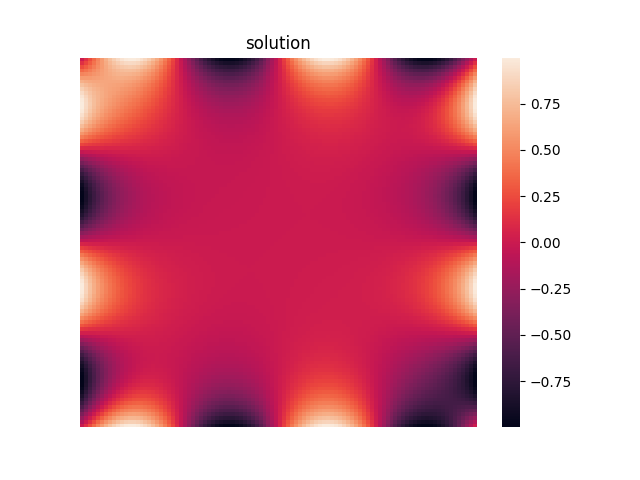
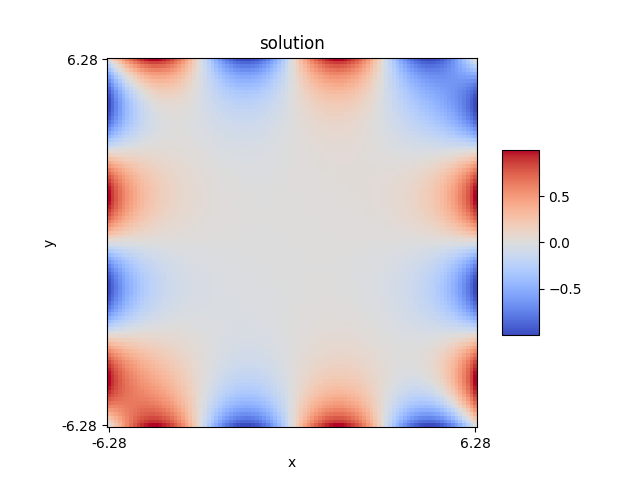
add 2d plot; fix laplace 2d heatmap plot

diff --git a/poissonpy.py b/poissonpy.py
@@ -26,13 +26,13 @@ class Poisson2DRectangle:
         self.x2, self.y2 = rect[1] # bottom-right corner
         self.X, self.Y = X, Y
 
-        x = np.linspace(self.x1, self.x2, self.X)
-        y = np.linspace(self.y1, self.y2, self.Y)
+        self.x = np.linspace(self.x1, self.x2, self.X)
+        self.y = np.linspace(self.y1, self.y2, self.Y)
         
-        self.dx = x[1] - x[0]
-        self.dy = y[1] - y[0]
+        self.dx = self.x[1] - self.x[0]
+        self.dy = self.y[1] - self.y[0]
 
-        self._x_grid, self._y_grid = np.meshgrid(x, y)
+        self._x_grid, self._y_grid = np.meshgrid(self.x, self.y)
         self.xs = self.x_grid.flatten()
         self.ys = self.y_grid.flatten()
 
@@ -197,5 +197,5 @@ if __name__ == "__main__":
     solution = solver.solve()
 
     utils.plot_3d(solver.x_grid, solver.y_grid, solution, "solution")
-    utils.plot_2d(solution, "solution")
+    utils.plot_2d(solver.x, solver.y, solution, "solution")
     #utils.plot_3d(solver.x_grid, solver.y_grid, gt, "ground truth")

diff --git a/utils.py b/utils.py
@@ -14,10 +14,15 @@ def get_grid_ids(grid):
     grid_ids = np.arange(grid.shape[0] * grid.shape[1]).reshape(grid.shape[0], grid.shape[1])
     return grid_ids
 
-def plot_2d(solution, title):
-    sns.heatmap(solution)
-    plt.title(title)
-    plt.axis("off")
+def plot_2d(X, Y, Z, title):
+    fig, ax = plt.subplots()
+    heatmap = ax.imshow(Z[::-1], cmap=cm.coolwarm)
+    ax.set_title(title)
+    ax.set_xlabel("x")
+    ax.set_ylabel("y")
+    ax.set_xticks([0, len(X) - 1], np.round(np.array([X[0], X[-1]]), 2))
+    ax.set_yticks([0, len(Y) - 1], np.round(np.array([Y[-1], Y[0]]), 2))
+    fig.colorbar(heatmap, shrink=0.5, aspect=5)
     plt.show()
 
 def plot_3d(X, Y, Z, title):
